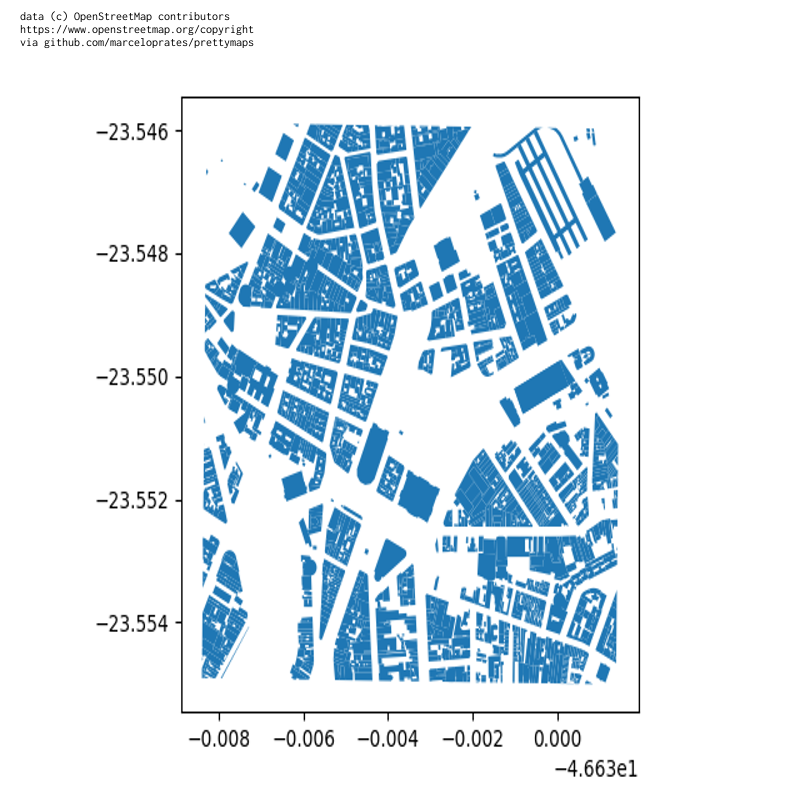
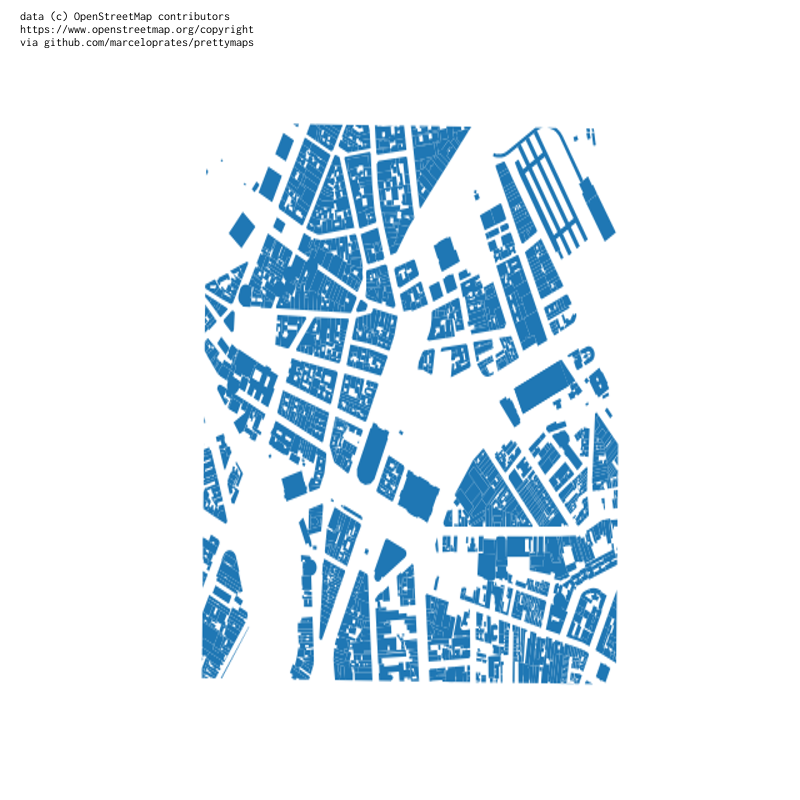
a bit better

diff --git a/2024/sketch_2024_07_20/sketch_2024_07_20.py b/2024/sketch_2024_07_20/sketch_2024_07_20.py
@@ -3,8 +3,8 @@ import py5
 
 place = "Sé, São Paulo, SP, Brasil"
 plot = prettymaps.plot(place)
-buildings = plot.geodataframes['building'].plot(ax=None)
-#buildings.axes = []
+buildings = plot.geodataframes['building'].plot()
+_ = buildings.axis('off')
 
 message = 'data (c) OpenStreetMap contributors\n'\
           'https://www.openstreetmap.org/copyright\n'\
